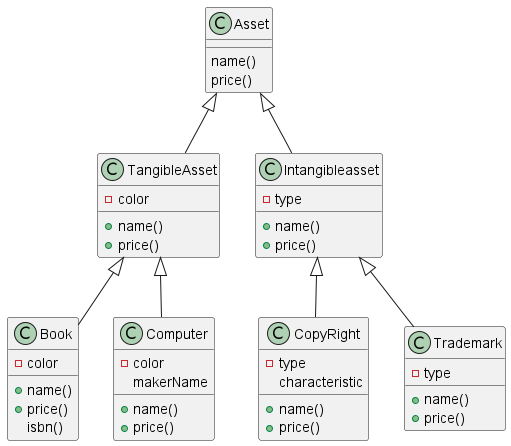
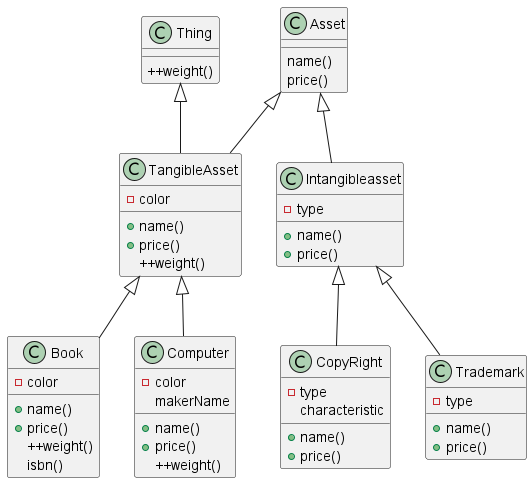
fix: 옛날 코드 수정

Changed region(s): [[0.0, 0.0, 0.998, 0.991], [0.9687, 0.9327, 0.998, 0.9619]]

diff --git a/lib/orm_240313/tangibleasset.dart b/lib/orm_240313/tangibleasset.dart
@@ -2,15 +2,38 @@ import 'package:learn_dart_together/orm_240313/thing.dart';
 
 import 'asset.dart';
 
+// abstract class TangibleAsset extends Asset implements Thing {
+//   String color;
+//   double _weight;
+//
+//   TangibleAsset(
+//       {required super.name,
+//       required super.price,
+//       required this.color,
+//       required double _weight})
+//       : _weight = weight;
+//
+//   @override
+//   double get weight => _weight;
+//
+//   @override
+//   set weight(double value) {
+//     if (value > 0) {
+//       _weight = value;
+//     } else {
+//       throw Exception('Weight must be positive');
+//     }
+//   }
+// }
+
 abstract class TangibleAsset extends Asset implements Thing {
   String color;
   double _weight;
 
-
+  TangibleAsset(super.name,super.price,this.color, this._weight);
 
   @override
   double get weight => _weight;
-
 
   @override
   set weight(double value) {
@@ -21,42 +44,37 @@ abstract class TangibleAsset extends Asset implements Thing {
     }
   }
 
-  TangibleAsset(super.name, super.price, this.color, this._weight);
+  @override
+  String toString() {
+    return '제목: $name, 가격: $price원, 색깔: $color, 무게: $weight kg';
+  }
 }
-
-
-
 
 class Book extends TangibleAsset {
   String isbn;
 
-  Book(String name, int price, String color, this.isbn)
-      : super(name, price, color, 0.5);
-
+  Book(super.name, super.price, super.color,  this.isbn, super.weight);
 
   @override
   String toString() {
-    return '제목: $name, 가격: $price원, 색깔: $color, 고유 번호: $isbn';
+    return '제목: $name, 가격: $price원, 색깔: $color, 고유 번호: $isbn 무게: $weight Kg';
   }
 }
 
 class Computer extends TangibleAsset {
   String makerName;
 
-  Computer(String name, int price, String color, this.makerName, double weight)
-      : super(name, price, color, weight);
+  Computer(super.name, super.price, super.color, this.makerName,super.weight);
 
 
   @override
   String toString() {
-  return '제품명: $name, 가치: $price원, 색깔: $color, 제조사: $makerName';
-   }
-
-
+    return '제품명: $name, 가치: $price원, 색깔: $color, 제조사: $makerName';
+  }
 }
 
 void main() {
-  Book book = Book('톰 소여의 모험', 6500, '흰색', '64800');
+  Book book = Book('톰 소여의 모험', 6500, '흰색', '64800', 0.5);
   Computer computer = Computer('Macbook Air 15', 216000, '미드나이트', 'Apple', 2.5);
   print(book);
   print(computer);
